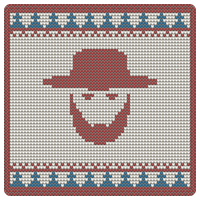
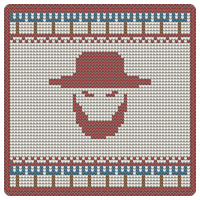
feat(seasonal): pitchfork and clover trims for Amish and Micks patches
Claude-Session: https://claude.ai/code/session_012SBcxsP8ZrJYdm71tjPWra

diff --git a/scripts/build-sweater-marks.py b/scripts/build-sweater-marks.py
@@ -35,6 +35,10 @@ MENORAH = ["G.G.G", "X.X.X", "XXXXX", "..X..", ".XXX."]
 # binary for Computer Jocks, a pot leaf for Smokane (owner, Oct 2026)
 ONE = ["..X..", ".XX..", "..X..", "..X..", ".XXX."]
 ZERO = [".XXX.", "X...X", "X...X", "X...X", ".XXX."]
+# a pitchfork with a wooden (G) handle for Avenging Amish
+PITCHFORK = ["X.X.X", "X.X.X", "XXXXX", "..G..", "..G..", "..G..", "..G.."]
+# a three-leaf clover for Muck Juggling Micks
+CLOVER = ["...XXX...", "...XXX...", ".XX.X.XX.", ".XXX.XXX.", ".XX.X.XX.", "....X....", ".....X..."]
 LEAF = ["....X....", "X...X...X", ".X.XXX.X.", "..XXXXX..", "XXX.X.XXX", "....X....", "....X...."]
 
 def hexrgb(h): return tuple(int(h[i:i+2], 16) for i in (1, 3, 5))
@@ -153,7 +157,7 @@ def build(mark_path, base, ink, accent, alt, motif, leaf=None, regions=None, cen
     o = Image.new('RGBA', (768, 768)); o.paste(img, (0, 0), mask)
     return o
 
-MOTIFS, PATTERNS = [TREE, FLAKE], {'carrot': CARROT, 'menorah': [MENORAH, FLAKE], 'binary': [ONE, ZERO, ONE, ONE, ZERO], 'leaf': [LEAF]}
+MOTIFS, PATTERNS = [TREE, FLAKE], {'carrot': CARROT, 'menorah': [MENORAH, FLAKE], 'binary': [ONE, ZERO, ONE, ONE, ZERO], 'leaf': [LEAF], 'pitchfork': [PITCHFORK], 'clover': [CLOVER]}
 
 def rgb(h): return tuple(int(h[i:i+2], 16) / 255 for i in (1, 3, 5))
 def lum(h):
@@ -179,6 +183,8 @@ OVERRIDES = {
     ('theleague', '0010'): {'motif': ['#2b972b'], 'pattern': 'binary'},
     ('afl', '0005'): {'motif': ['#2b972b'], 'pattern': 'binary'},
     ('afl', '0001'): {'pattern': 'leaf'},
+    ('afl', '0007'): {'pattern': 'pitchfork', 'leaf': '#8a5a32'},
+    ('afl', '0013'): {'pattern': 'clover', 'motif': ['#f4f1ea']},
     ('theleague', '0005'): {'motif': ['#de3f3f', '#2f8b59']},
     ('afl', '0015'): {'motif': ['#de3f3f', '#2f8b59']},
     # Drunk Indians: blue and red first; yellow only as a rare accent.
